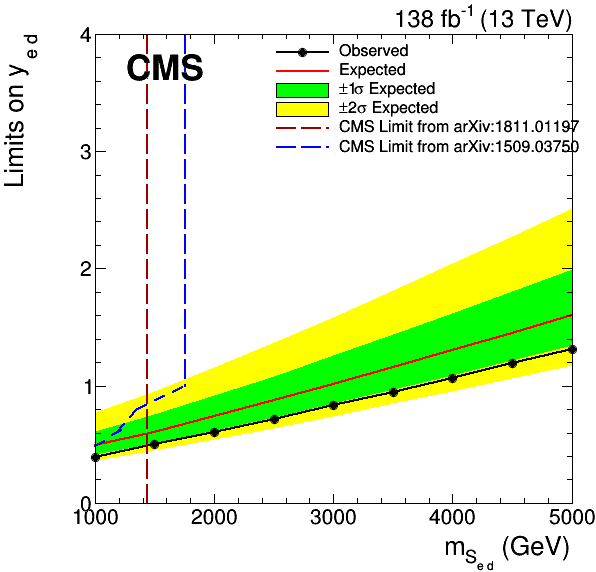
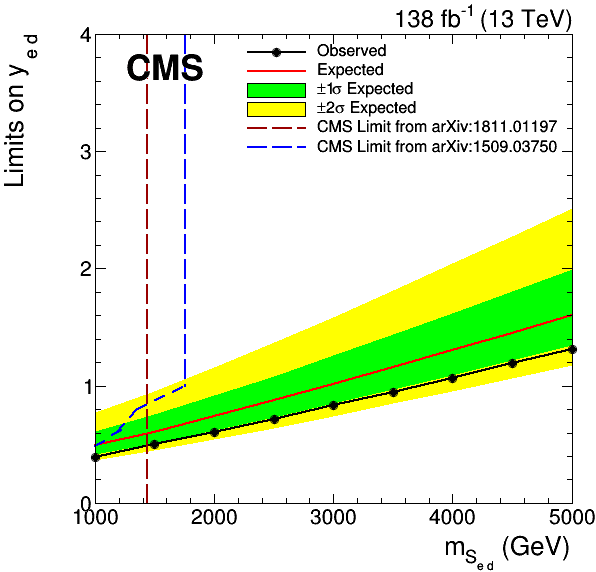
eu ed limit legend

Changed region(s): [[0.3926, 0.0594, 0.9664, 0.2675]]

diff --git a/analyze/combine/AFB_fits/scripts/LQ_get_limits.py b/analyze/combine/AFB_fits/scripts/LQ_get_limits.py
@@ -65,7 +65,7 @@ def plotLimits(channel):
     axis.Draw('axis')
      
      # Create a legend in the top left
-    legend = PositionedLegend(0.5, 0.2, 3, 0.015)
+    legend = PositionedLegend(0.55, 0.2, 3, 0.015)
      
      # Set the standard green and yellow colors and draw
     StyleLimitBand(graphs)
